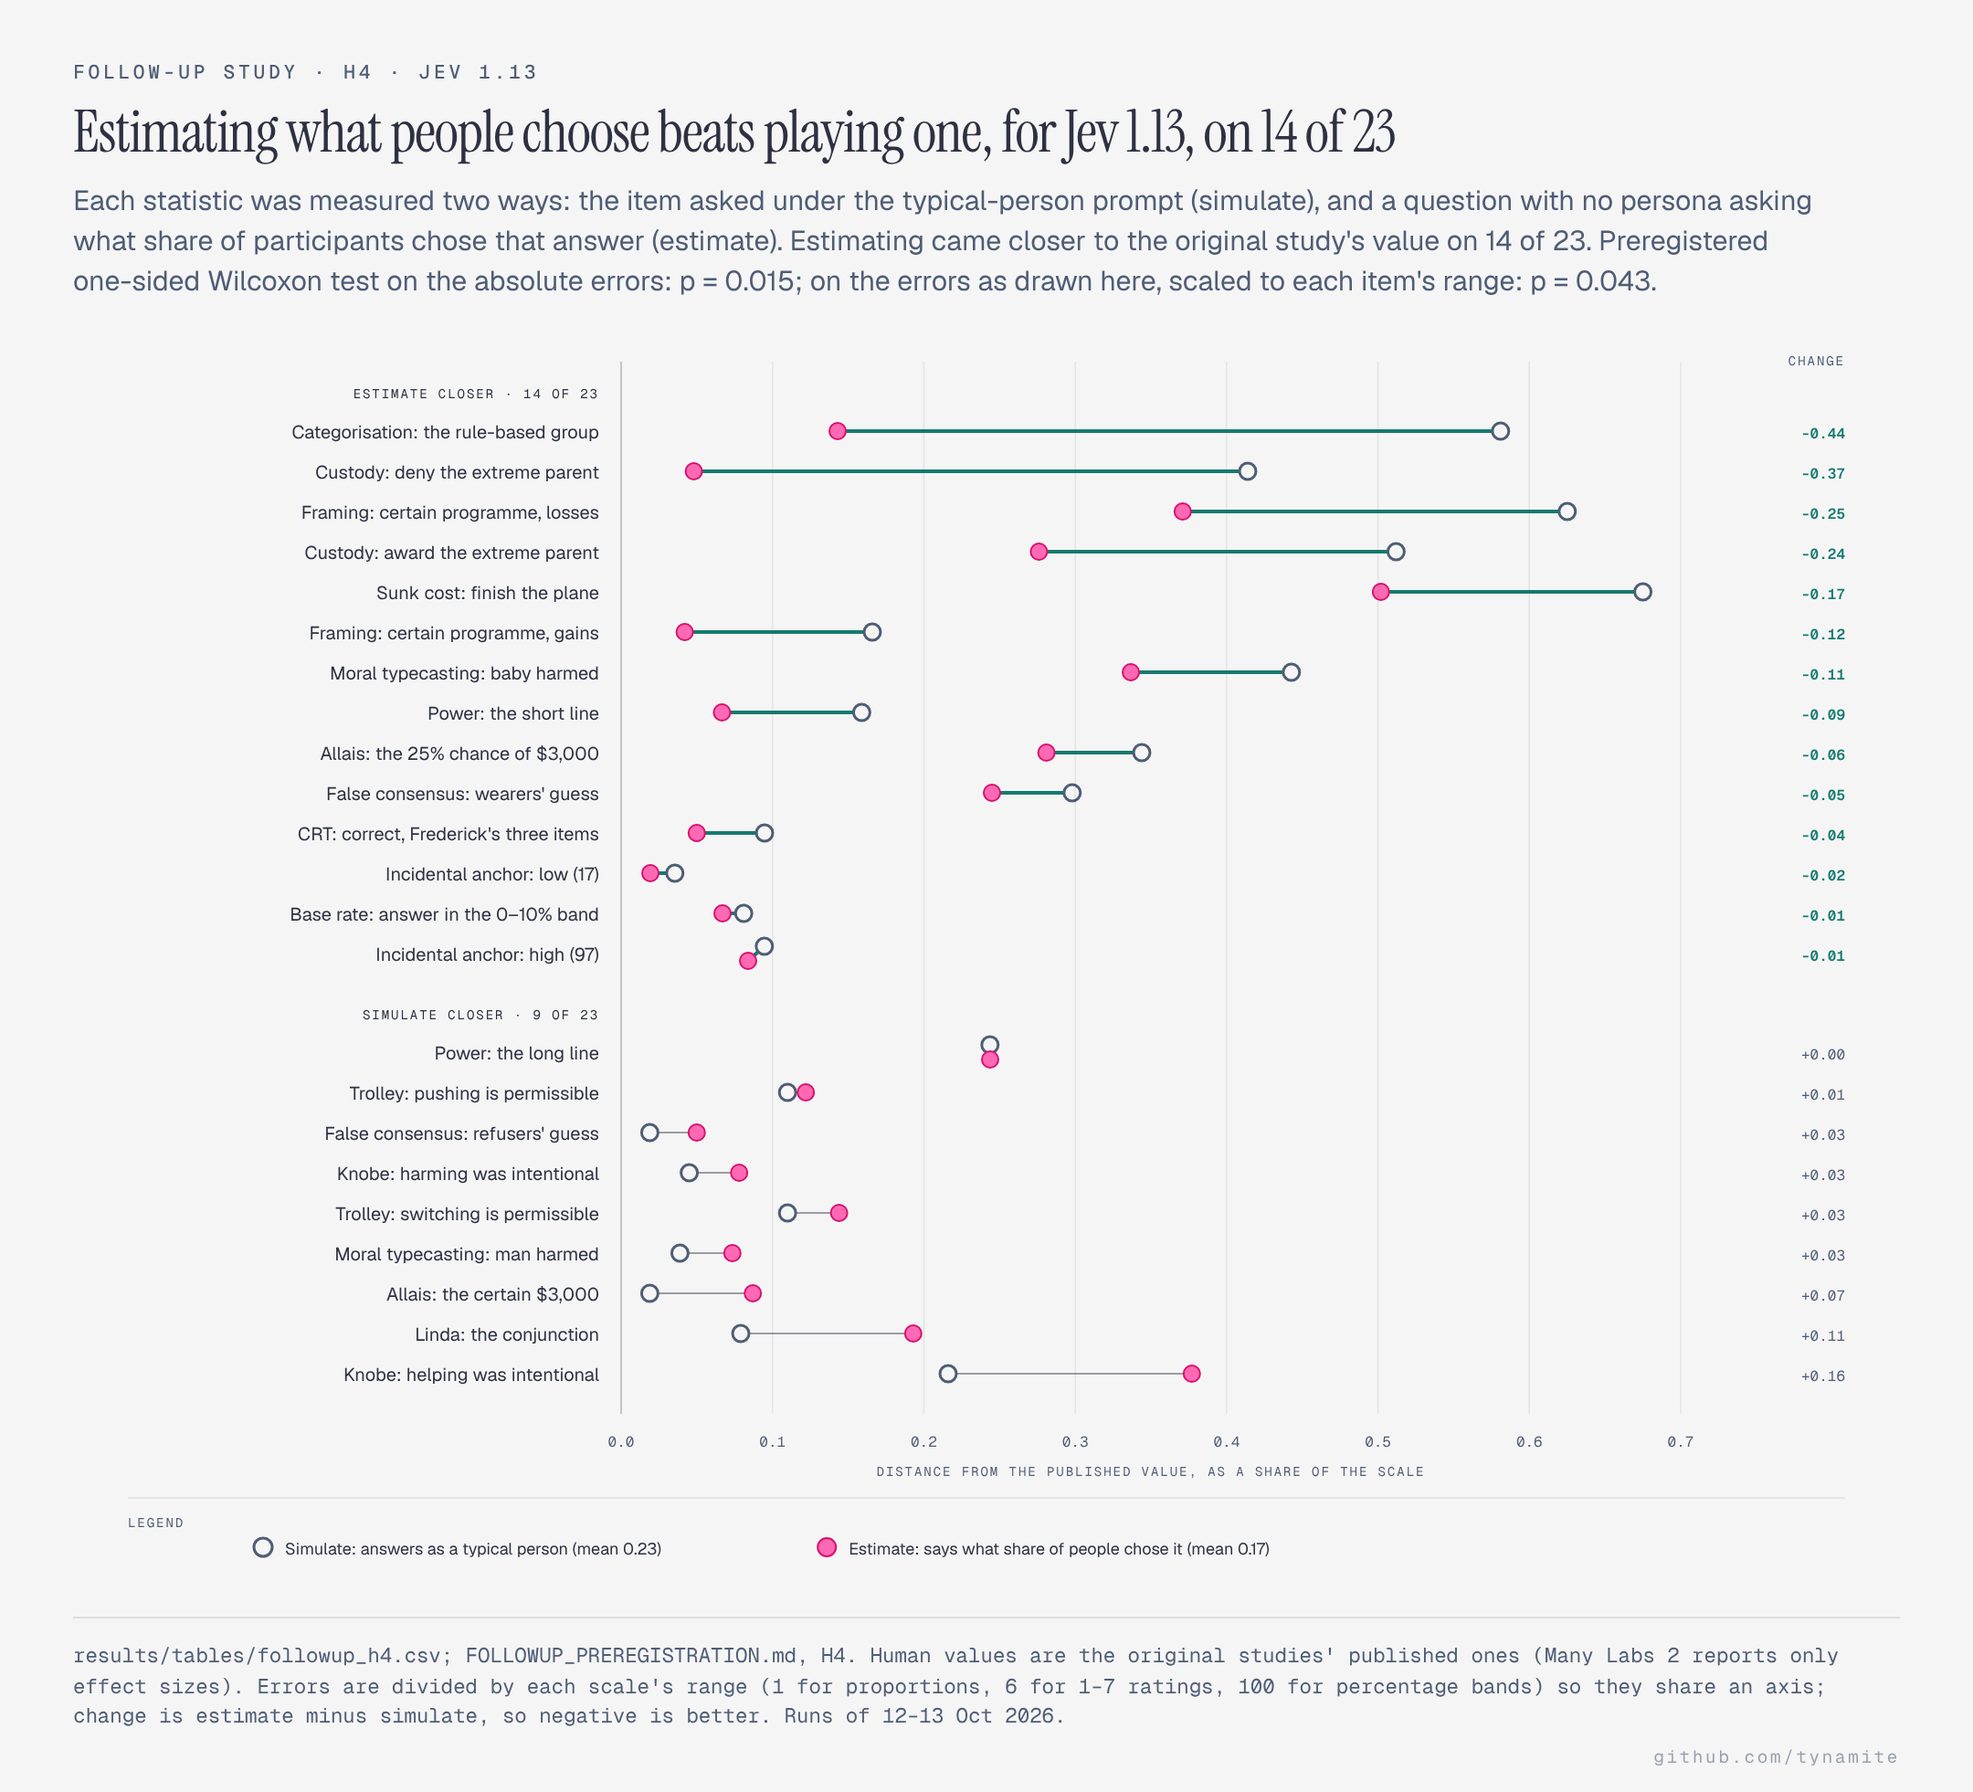
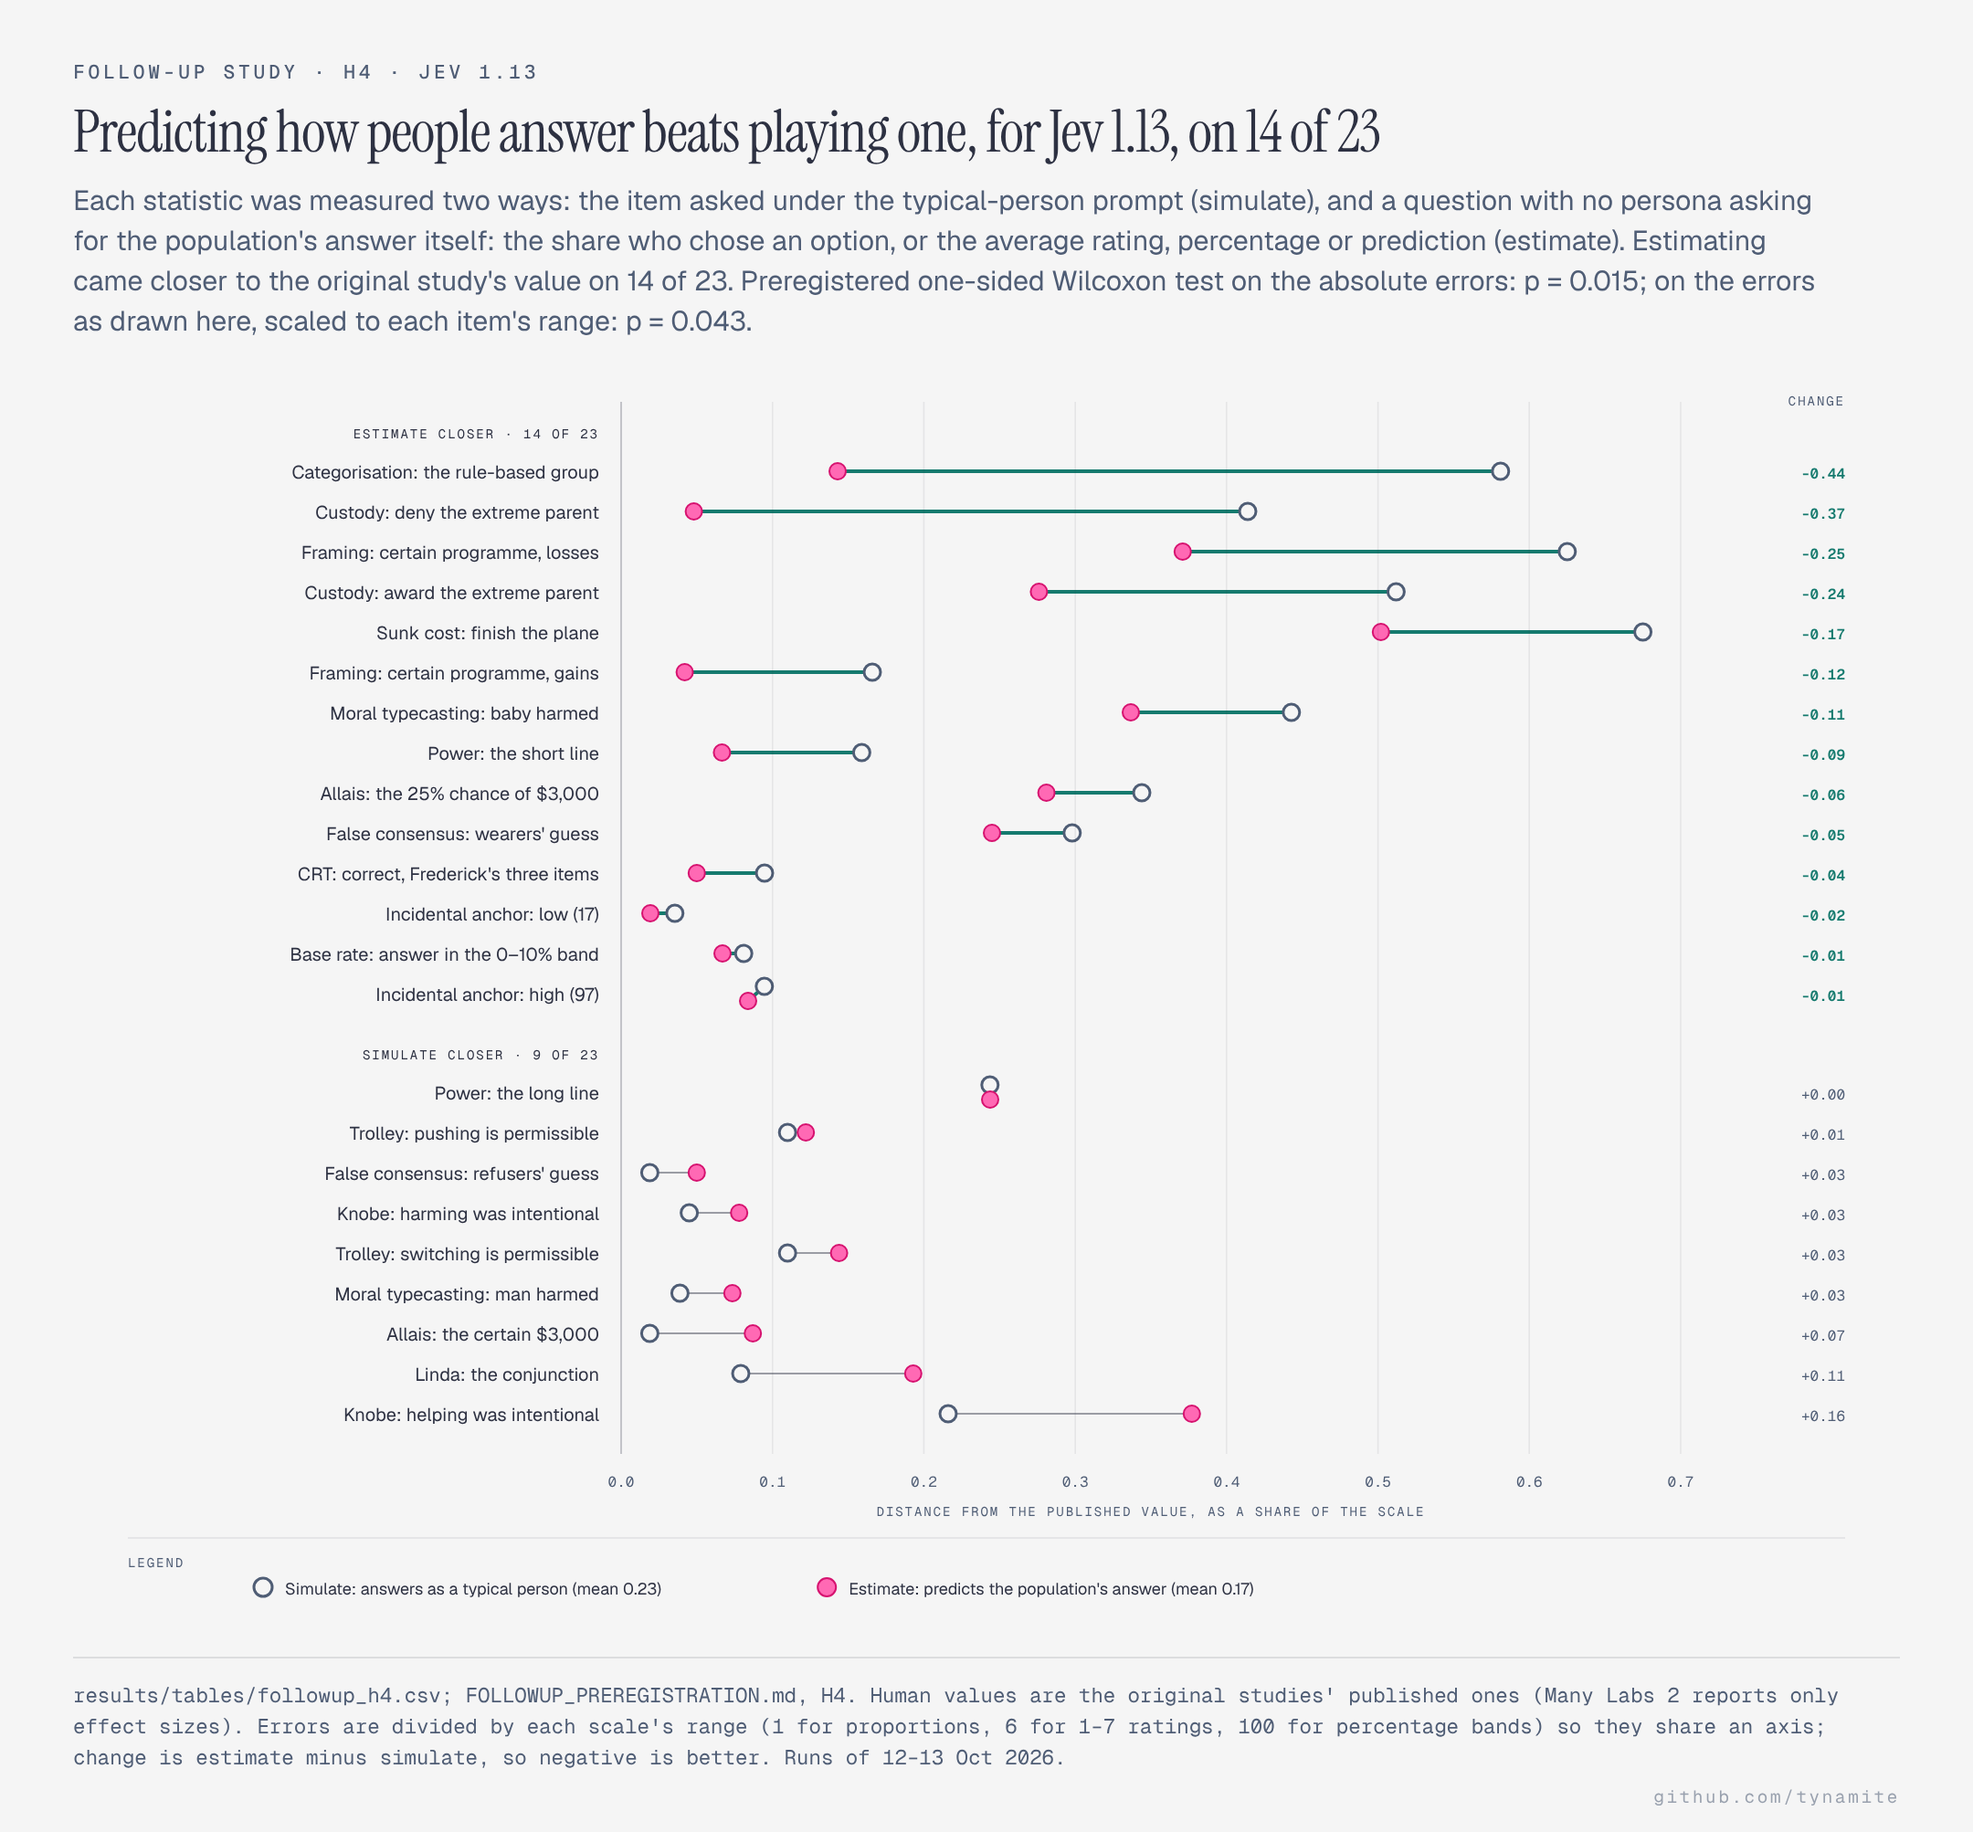
H4 chart: describe estimates as the population's answer, not only a choice share

diff --git a/docs/diagrams/followup-h4.html b/docs/diagrams/followup-h4.html
@@ -3,7 +3,7 @@
 <head>
   <meta charset="UTF-8">
   <meta name="viewport" content="width=device-width, initial-scale=1.0">
-  <title>Estimating what people choose beats playing one, for Jev 1.13, on 14 of 23</title>
+  <title>Predicting how people answer beats playing one, for Jev 1.13, on 14 of 23</title>
   <link href="https://fonts.googleapis.com/css2?family=Instrument+Serif:ital@0;1&family=Geist:wght@400;500;600&family=Geist+Mono:wght@400;500;600&display=swap" rel="stylesheet">
   <style>
     *, *::before, *::after { box-sizing: border-box; margin: 0; padding: 0; }
@@ -41,11 +41,11 @@
 <body>
   <div class="frame">
     <p class="eyebrow">Follow-up study · H4 · Jev 1.13</p>
-    <h1>Estimating what people choose beats playing one, for Jev 1.13, on 14 of 23</h1>
-    <p class="subtitle">Each statistic was measured two ways: the item asked under the typical-person prompt (simulate), and a question with no persona asking what share of participants chose that answer (estimate). Estimating came closer to the original study&#x27;s value on 14 of 23. Preregistered one-sided Wilcoxon test on the absolute errors: p = 0.015; on the errors as drawn here, scaled to each item&#x27;s range: p = 0.043.</p>
+    <h1>Predicting how people answer beats playing one, for Jev 1.13, on 14 of 23</h1>
+    <p class="subtitle">Each statistic was measured two ways: the item asked under the typical-person prompt (simulate), and a question with no persona asking for the population&#x27;s answer itself: the share who chose an option, or the average rating, percentage or prediction (estimate). Estimating came closer to the original study&#x27;s value on 14 of 23. Preregistered one-sided Wilcoxon test on the absolute errors: p = 0.015; on the errors as drawn here, scaled to each item&#x27;s range: p = 0.043.</p>
     <div class="diagram-container">
       <svg viewBox="0 27 1000 688" xmlns="http://www.w3.org/2000/svg" role="img" aria-labelledby="followup-h4-title followup-h4-desc">
-        <title id="followup-h4-title">Estimating what people choose beats playing one, for Jev 1.13, on 14 of 23</title>
+        <title id="followup-h4-title">Predicting how people answer beats playing one, for Jev 1.13, on 14 of 23</title>
         <desc id="followup-h4-desc">Dot chart with one row per statistic, showing how far Jev 1.13&#x27;s simulated answer and its population estimate land from the published human value, grouped by which came closer.</desc>
         <defs>
           <marker id="arrow" markerWidth="8" markerHeight="6" refX="7" refY="3" orient="auto"><polygon points="0 0, 8 3, 0 6" fill="#4f5d75"/></marker>
@@ -193,7 +193,7 @@
 <circle cx="104" cy="693" r="5" fill="#f5f5f5" stroke="#4f5d75" stroke-width="1.5"/>
 <text x="116" y="697" fill="#2d3142" font-size="9" font-family="'Geist', system-ui, sans-serif" text-anchor="start">Simulate: answers as a typical person (mean 0.23)</text>
 <circle cx="412.6" cy="693" r="5" fill="#ff69b4" stroke="#d6126f" stroke-width="1"/>
-<text x="424.6" y="697" fill="#2d3142" font-size="9" font-family="'Geist', system-ui, sans-serif" text-anchor="start">Estimate: says what share of people chose it (mean 0.17)</text>
+<text x="424.6" y="697" fill="#2d3142" font-size="9" font-family="'Geist', system-ui, sans-serif" text-anchor="start">Estimate: predicts the population&#x27;s answer (mean 0.17)</text>
       </svg>
     </div>
     <p class="source">results/tables/followup_h4.csv; FOLLOWUP_PREREGISTRATION.md, H4. Human values are the original studies&#x27; published ones (Many Labs 2 reports only effect sizes). Errors are divided by each scale&#x27;s range (1 for proportions, 6 for 1–7 ratings, 100 for percentage bands) so they share an axis; change is estimate minus simulate, so negative is better. Runs of 12–13 Oct 2026.</p>

diff --git a/src/jevbench/diagrams.py b/src/jevbench/diagrams.py
@@ -2477,7 +2477,7 @@ def fig_h4(h4: pd.DataFrame) -> Figure:
     rule = int(rows_bottom + 46)
     out.append(_legend(1000, rule, []))
     k1 = f"Simulate: answers as a typical person (mean {summary['mean_scaled_error_simulate']:.2f})"
-    k2 = f"Estimate: says what share of people chose it (mean {summary['mean_scaled_error_estimate']:.2f})"
+    k2 = f"Estimate: predicts the population's answer (mean {summary['mean_scaled_error_estimate']:.2f})"
     ky = rule + 31
     out.append(
         f'<circle cx="104" cy="{ky - 4}" r="5" fill="{PAPER}" stroke="{MUTED}" stroke-width="1.5"/>'
@@ -2492,13 +2492,14 @@ def fig_h4(h4: pd.DataFrame) -> Figure:
         slug="followup-h4",
         eyebrow="Follow-up study · H4 · Jev 1.13",
         title=(
-            f"Estimating what people choose beats playing one, for Jev 1.13, on "
+            f"Predicting how people answer beats playing one, for Jev 1.13, on "
             f"{summary['estimate_closer']} of {summary['n']}"
         ),
         subtitle=(
             f"Each statistic was measured two ways: the item asked under the typical-person prompt "
-            f"(simulate), and a question with no persona asking what share of participants chose that "
-            f"answer (estimate). Estimating came closer to the original study's value on "
+            f"(simulate), and a question with no persona asking for the population's answer itself: "
+            f"the share who chose an option, or the average rating, percentage or prediction "
+            f"(estimate). Estimating came closer to the original study's value on "
             f"{summary['estimate_closer']} of {summary['n']}. Preregistered one-sided Wilcoxon test on "
             f"the absolute errors: p = {summary['wilcoxon_p_one_sided']:.3f}; on the errors as drawn "
             f"here, scaled to each item's range: p = {summary['wilcoxon_p_scaled']:.3f}."
